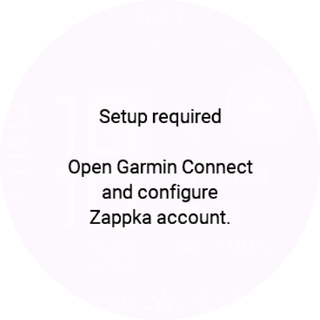
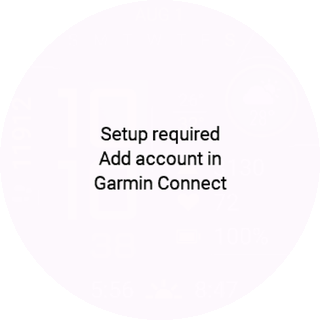
Docs: menu, sign out, v1.0.0 and v1.1.0-rc1 in the changelog

Changed region(s): [[0.1875, 0.3438, 0.8125, 0.7188]]

diff --git a/README.md b/README.md
@@ -9,17 +9,18 @@
 </p>
 
 <p align="center">
-  <a href="CHANGELOG.md"><img src="https://img.shields.io/badge/Garmin%20app-v1.0%20rc1-007CC3?style=flat-square&logo=garmin&logoColor=white" alt="Garmin app v1.0 rc1"></a>
+  <a href="CHANGELOG.md"><img src="https://img.shields.io/badge/Garmin%20app-v1.1%20rc1-007CC3?style=flat-square&logo=garmin&logoColor=white" alt="Garmin app v1.1 rc1"></a>
   <img src="https://img.shields.io/badge/Connect%20IQ-Monkey%20C-111?style=flat-square" alt="Connect IQ, Monkey C">
   <img src="https://img.shields.io/badge/permissions-none-16a34a?style=flat-square" alt="No permissions">
   <img src="https://img.shields.io/badge/network-offline-16a34a?style=flat-square" alt="Offline">
-  <img src="https://img.shields.io/badge/tests-17%20passing-16a34a?style=flat-square" alt="17 tests passing">
+  <img src="https://img.shields.io/badge/tests-26%20passing-16a34a?style=flat-square" alt="26 tests passing">
   <a href="LICENSE"><img src="https://img.shields.io/badge/license-MIT-555?style=flat-square" alt="MIT license"></a>
 </p>
 
 <p align="center">
   <a href="#how-it-works">How it works</a> ·
   <a href="#features">Features</a> ·
+  <a href="#watch-menu">Menu</a> ·
   <a href="#screenshots">Screenshots</a> ·
   <a href="docs/WATCH_SETUP.md">Watch setup</a> ·
   <a href="docs/PROTOCOL.md">Protocol notes</a> ·
@@ -62,6 +63,7 @@ points are credited, and a code scanned in the **last seconds** of its 30-second
 4. In the last 2 seconds the countdown turns **inverted**. The code is *not* switched early:
    field use shows that even the last seconds are accepted.
 5. Waiting in line? **START** turns on checkout mode: full brightness and a 10-minute timeout.
+6. **MENU** opens the watch menu: checkout mode, buzz on/off, status, sign out, about.
 
 </td>
 </tr>
@@ -106,7 +108,31 @@ points are credited, and a code scanned in the **last seconds** of its 30-second
 
 </td>
 </tr>
+<tr>
+<td valign="top">
+
+<img src="docs/assets/icons/menu.svg" width="20" alt=""> **Watch menu** — checkout mode, buzz on new code, status with a clock check, sign out with confirmation, about with version and license.
+
+</td>
+<td valign="top">
+
+<img src="docs/assets/icons/ruler.svg" width="20" alt=""> **Fits every screen** — tests measure each text screen with the watch font against the round AMOLED and the Solar octagon and subscreen.
+
+</td>
+</tr>
 </table>
+
+## Watch menu
+
+Press **MENU** on the QR screen.
+
+| Item | What it does |
+|---|---|
+| **Checkout mode** | on/off: maximum backlight, 10-minute timeout (same as **START**) |
+| **Buzz on new code** | on/off: short vibration every 30 s when the code changes; remembered |
+| **Status** | masked ID, UTC time of the watch, seconds to the next code: quick clock check |
+| **Sign out** | asks for confirmation, then deletes the account from the watch and clears the app settings |
+| **About** | version, MIT license, unofficial-app note |
 
 ## Screenshots
 
@@ -116,7 +142,7 @@ independent Python TOTP.
 
 | Instinct 3 AMOLED 45 mm | Instinct 3 Solar 45 mm | First start |
 |---|---|---|
-| <img src="docs/screenshots/qr-amoled45.png" width="220" alt="AMOLED: QR with 29 s countdown"> | <img src="docs/screenshots/qr-solar45.png" width="220" alt="Solar: QR with countdown in the subscreen"> | <img src="docs/screenshots/setup-required.png" width="220" alt="Setup required screen"> |
+| <img src="docs/screenshots/qr-amoled45.png" width="220" alt="AMOLED: QR with 29 s countdown"> | <img src="docs/screenshots/qr-solar45.png" width="220" alt="Solar: QR with countdown in the subscreen"> | <img src="docs/screenshots/setup-required.png" width="220" alt="Setup required: add account in Garmin Connect"> |
 | 6 px modules, countdown below | 2 px modules, countdown in the subscreen | Before account data is entered |
 
 ## Watch setup
@@ -174,10 +200,11 @@ source/
 ├── ZappkaApp.mc ZappkaView.mc ZappkaDelegate.mc   app, QR view, buttons
 ├── crypto/        Hex, TotpGenerator (RFC 6238 + own RFC 2104 HMAC)
 ├── qr/            QrEncoder (byte mode, v1–10, ECC L/M), QrRenderer (layout, bitmap)
-├── storage/       CredentialStore (settings import state machine)
-├── ui/            CountdownRenderer, ZappkaGlanceView
+├── storage/       CredentialStore (settings import, sign out), Prefs (menu settings)
+├── ui/            ZappkaMenu (menu, sign out, about), TextScreen, CountdownRenderer, ZappkaGlanceView
 └── zappka/        ZappkaProtocol (all constants), ZappkaCredentials, ZappkaPayload
-tests/             17 simulator tests: RFC vectors, payload, QR vs. Nayuki, layout, settings import
+tests/             26 simulator tests: RFC vectors, payload, QR vs. Nayuki, layout, settings import,
+                   menu actions, every text screen fits the screen (EN and PL)
 resources/         strings (EN), settings, icon        resources-pol/  strings (PL)
 tools/             release.sh, screenshots.ps1, sim-e2e.sh, build-personal.sh, vault.ps1, check-secrets.py
 docs/              ARCHITECTURE, PROTOCOL, WATCH_SETUP, ON_WATCH_LINKING, ROADMAP, RELEASES, assets/
@@ -206,8 +233,9 @@ Details: [`THREAT_MODEL.md`](THREAT_MODEL.md). Reporting: [`SECURITY.md`](SECURI
 
 ## Roadmap
 
-- **v1.0 — current.** Offline QR, checkout mode, settings import that never loses a working account, release provenance.
-- **v1.1 — next.** Link the account from the watch itself: the SMS code shows up as a watch notification and is entered with the buttons, no computer needed ([`docs/ON_WATCH_LINKING.md`](docs/ON_WATCH_LINKING.md)).
+- **v1.0 — released.** Offline QR, checkout mode, settings import that never loses a working account, release provenance.
+- **v1.1 — current (rc1).** Watch menu: checkout mode, buzz toggle, status, sign out, about. Compact text screens that fit Solar.
+- **v1.2 — next.** Link the account from the watch itself: the SMS code shows up as a watch notification and is entered with the buttons, no computer needed ([`docs/ON_WATCH_LINKING.md`](docs/ON_WATCH_LINKING.md)).
 - Field tests on Solar 45 and AMOLED 50.
 
 Full list: [`docs/ROADMAP.md`](docs/ROADMAP.md) · changes: [`CHANGELOG.md`](CHANGELOG.md).

diff --git a/docs/WATCH_SETUP.md b/docs/WATCH_SETUP.md
@@ -48,7 +48,7 @@ The order of the two fields does not matter: a secret entered before the ID wait
 |---|---|
 | open from glance | QR is on the screen |
 | **START** | checkout mode on/off: maximum backlight, 10 min timeout |
-| **MENU** | info: masked ID, key length, UTC time |
+| **MENU** | menu: checkout mode, buzz on new code, status, sign out, about |
 | **BACK** | exit (the app also closes itself after 3 min) |
 
 A new code appears every 30 seconds with a short buzz. In the last 2 seconds the countdown is
@@ -58,13 +58,18 @@ inverted; the code is still valid.
 
 | Screen / symptom | Cause | Fix |
 |---|---|---|
-| *Setup required* | no account on the watch | step 3, then sync the watch |
-| *Secret saved. Now enter your Zappka user ID* | secret entered without the ID | enter the ID in Garmin Connect |
-| *Invalid Zappka configuration* | ID not digits, or secret not 64 hex characters, and no working account | re-enter both values |
-| *New secret rejected* (4 s, then the QR) | the new value was invalid | the previous account still works; re-enter the new value if you meant to change it |
-| Checkout does not accept the code | watch clock drifted or the secret was re-issued | sync the watch with the phone; MENU shows UTC time; get the secret again (step 1) |
+| *Setup required. Add account in Garmin Connect* | no account on the watch | step 3, then sync the watch |
+| *Secret saved. Now add the user ID* | secret entered without the ID | enter the ID in Garmin Connect |
+| *Invalid account. Check ID and secret* | ID not digits, or secret not 64 hex characters, and no working account | re-enter both values |
+| *New secret rejected. Old account kept* (4 s, then the QR) | the new value was invalid | the previous account still works; re-enter the new value if you meant to change it |
+| Checkout does not accept the code | watch clock drifted or the secret was re-issued | sync the watch with the phone; **MENU → Status** shows UTC time; get the secret again (step 1) |
 | Scanner does not see the code | low brightness | press START for checkout mode |
 
 ## Changing the account
 
 Enter a new secret (and ID) in Garmin Connect. A valid pair replaces the stored one.
+
+## Signing out
+
+**MENU → Sign out → confirm.** The account is deleted from the watch and both settings fields are
+cleared, so nothing comes back on the next sync. The QR screen then shows *Setup required*.

diff --git a/CHANGELOG.md b/CHANGELOG.md
@@ -3,6 +3,26 @@
 All notable changes to this project are documented here. This project loosely
 follows [Semantic Versioning](https://semver.org/).
 
+## v1.1.0-rc1 — watch menu
+
+### Added
+- **MENU** opens a menu: *Checkout mode* and *Buzz on new code* toggles, *Status* (masked ID, UTC
+  time, seconds to the next code), *Sign out* with confirmation, *About* (version, MIT license,
+  unofficial-app note).
+- **Sign out** deletes the account from the watch and clears both settings fields, so nothing
+  returns on the next sync.
+- Tests: sign out, preferences, version format, and a layout test that measures every text
+  screen with the watch font on each device (EN and PL). 26 tests in total.
+
+### Fixed
+- **Instinct 3 Solar:** the *Setup required* text and the old info screen were wider than the
+  octagon or ran into the subscreen. Messages are now compact and start below the subscreen.
+
+## v1.0.0 — in daily use
+
+Same code as `v1.0.0-rc1`. Tagged after weeks of daily use at Żabka checkouts on Instinct 3
+AMOLED 45: codes accepted, points credited, last seconds of a step accepted, buzz on every new code.
+
 ## v1.0.0-rc1 — settings import, release provenance
 
 ### Changed

diff --git a/docs/ROADMAP.md b/docs/ROADMAP.md
@@ -11,9 +11,16 @@
 - [x] Settings import never loses a working account; secret before ID is kept
 - [x] Test-only data excluded from release builds
 - [x] Release script with commit, SDK and sha256 per device
-- [ ] Re-check `v1.0.0-rc1` at a checkout, then tag `v1.0.0`
+- [x] In daily use at checkouts: tagged `v1.0.0`
 
-## v1.1 — next: link from the watch
+## v1.1 — current: watch menu
+
+- [x] MENU: checkout mode, buzz on new code, status (clock check), sign out with confirmation, about (version, license)
+- [x] Compact message screens that fit the Instinct 3 Solar octagon and subscreen
+- [x] Tests: sign out, preferences, every text screen fits the screen (EN and PL)
+- [ ] Check the menu on the watch, then tag `v1.1.0`
+
+## v1.2 — next: link from the watch
 
 - [ ] Spike on the real watch: sign-in requests through Garmin Connect Mobile
 - [ ] Separate Link build with `Communications`; main build stays permission-free

diff --git a/docs/ARCHITECTURE.md b/docs/ARCHITECTURE.md
@@ -52,6 +52,15 @@ and 3 px fits only with a 0-module quiet zone. So 2 px with the full quiet zone 
 
 Covered by `tests/CredentialStoreTest.mc`.
 
+## Menu and text screens
+
+- `ZappkaMenu` builds a native `Menu2` (system-rendered on every device): two toggles, status,
+  sign out (native `Confirmation`; the item is removed from the open menu after sign out) and about.
+- `Prefs` keeps menu settings in Storage (buzz on new code, default on).
+- `TextScreen` draws About, Status and the QR-screen messages. On a device with a subscreen the
+  text block starts below it. `tests/TextScreenTest.mc` measures every line with the watch font
+  and checks it lies inside the visible screen shape and clear of the subscreen.
+
 ## Builds
 
 | Jungle | Purpose |

diff --git a/docs/ON_WATCH_LINKING.md b/docs/ON_WATCH_LINKING.md
@@ -1,4 +1,4 @@
-# On-watch account linking (planned, v1.1)
+# On-watch account linking (planned, v1.2)
 
 Goal: link the Żappka account **from the watch itself**, with no computer and no script.
 
